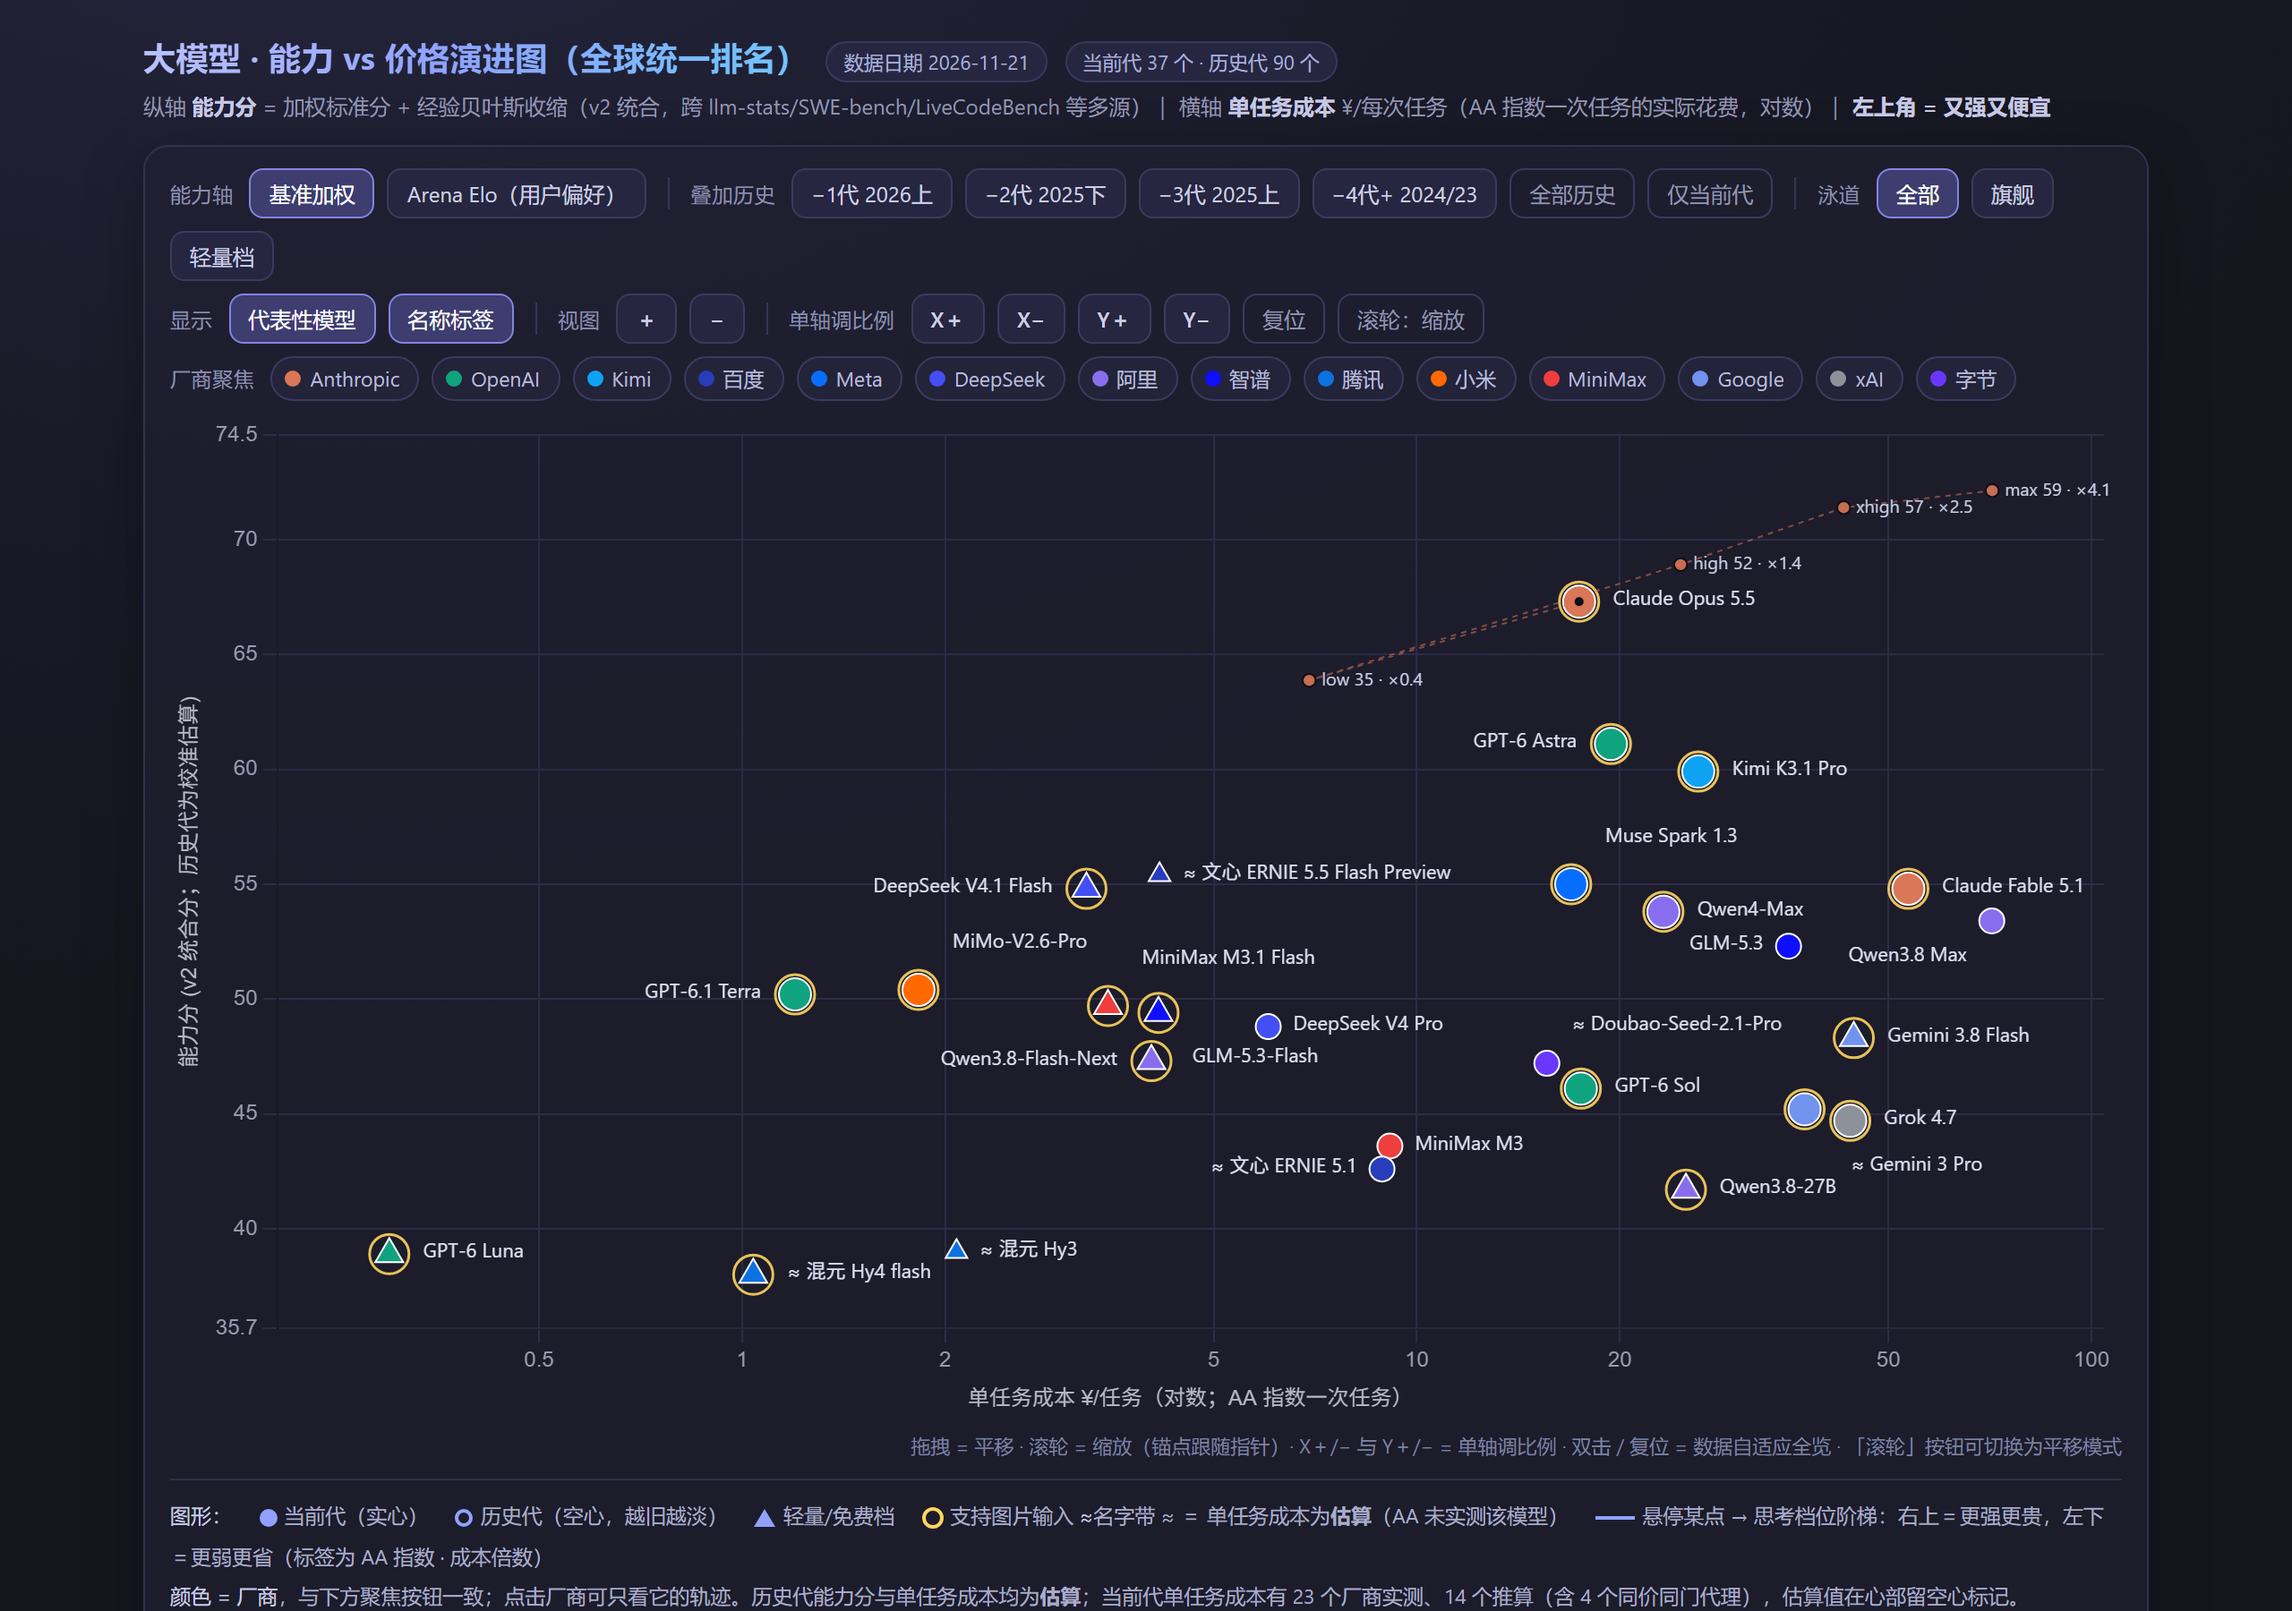
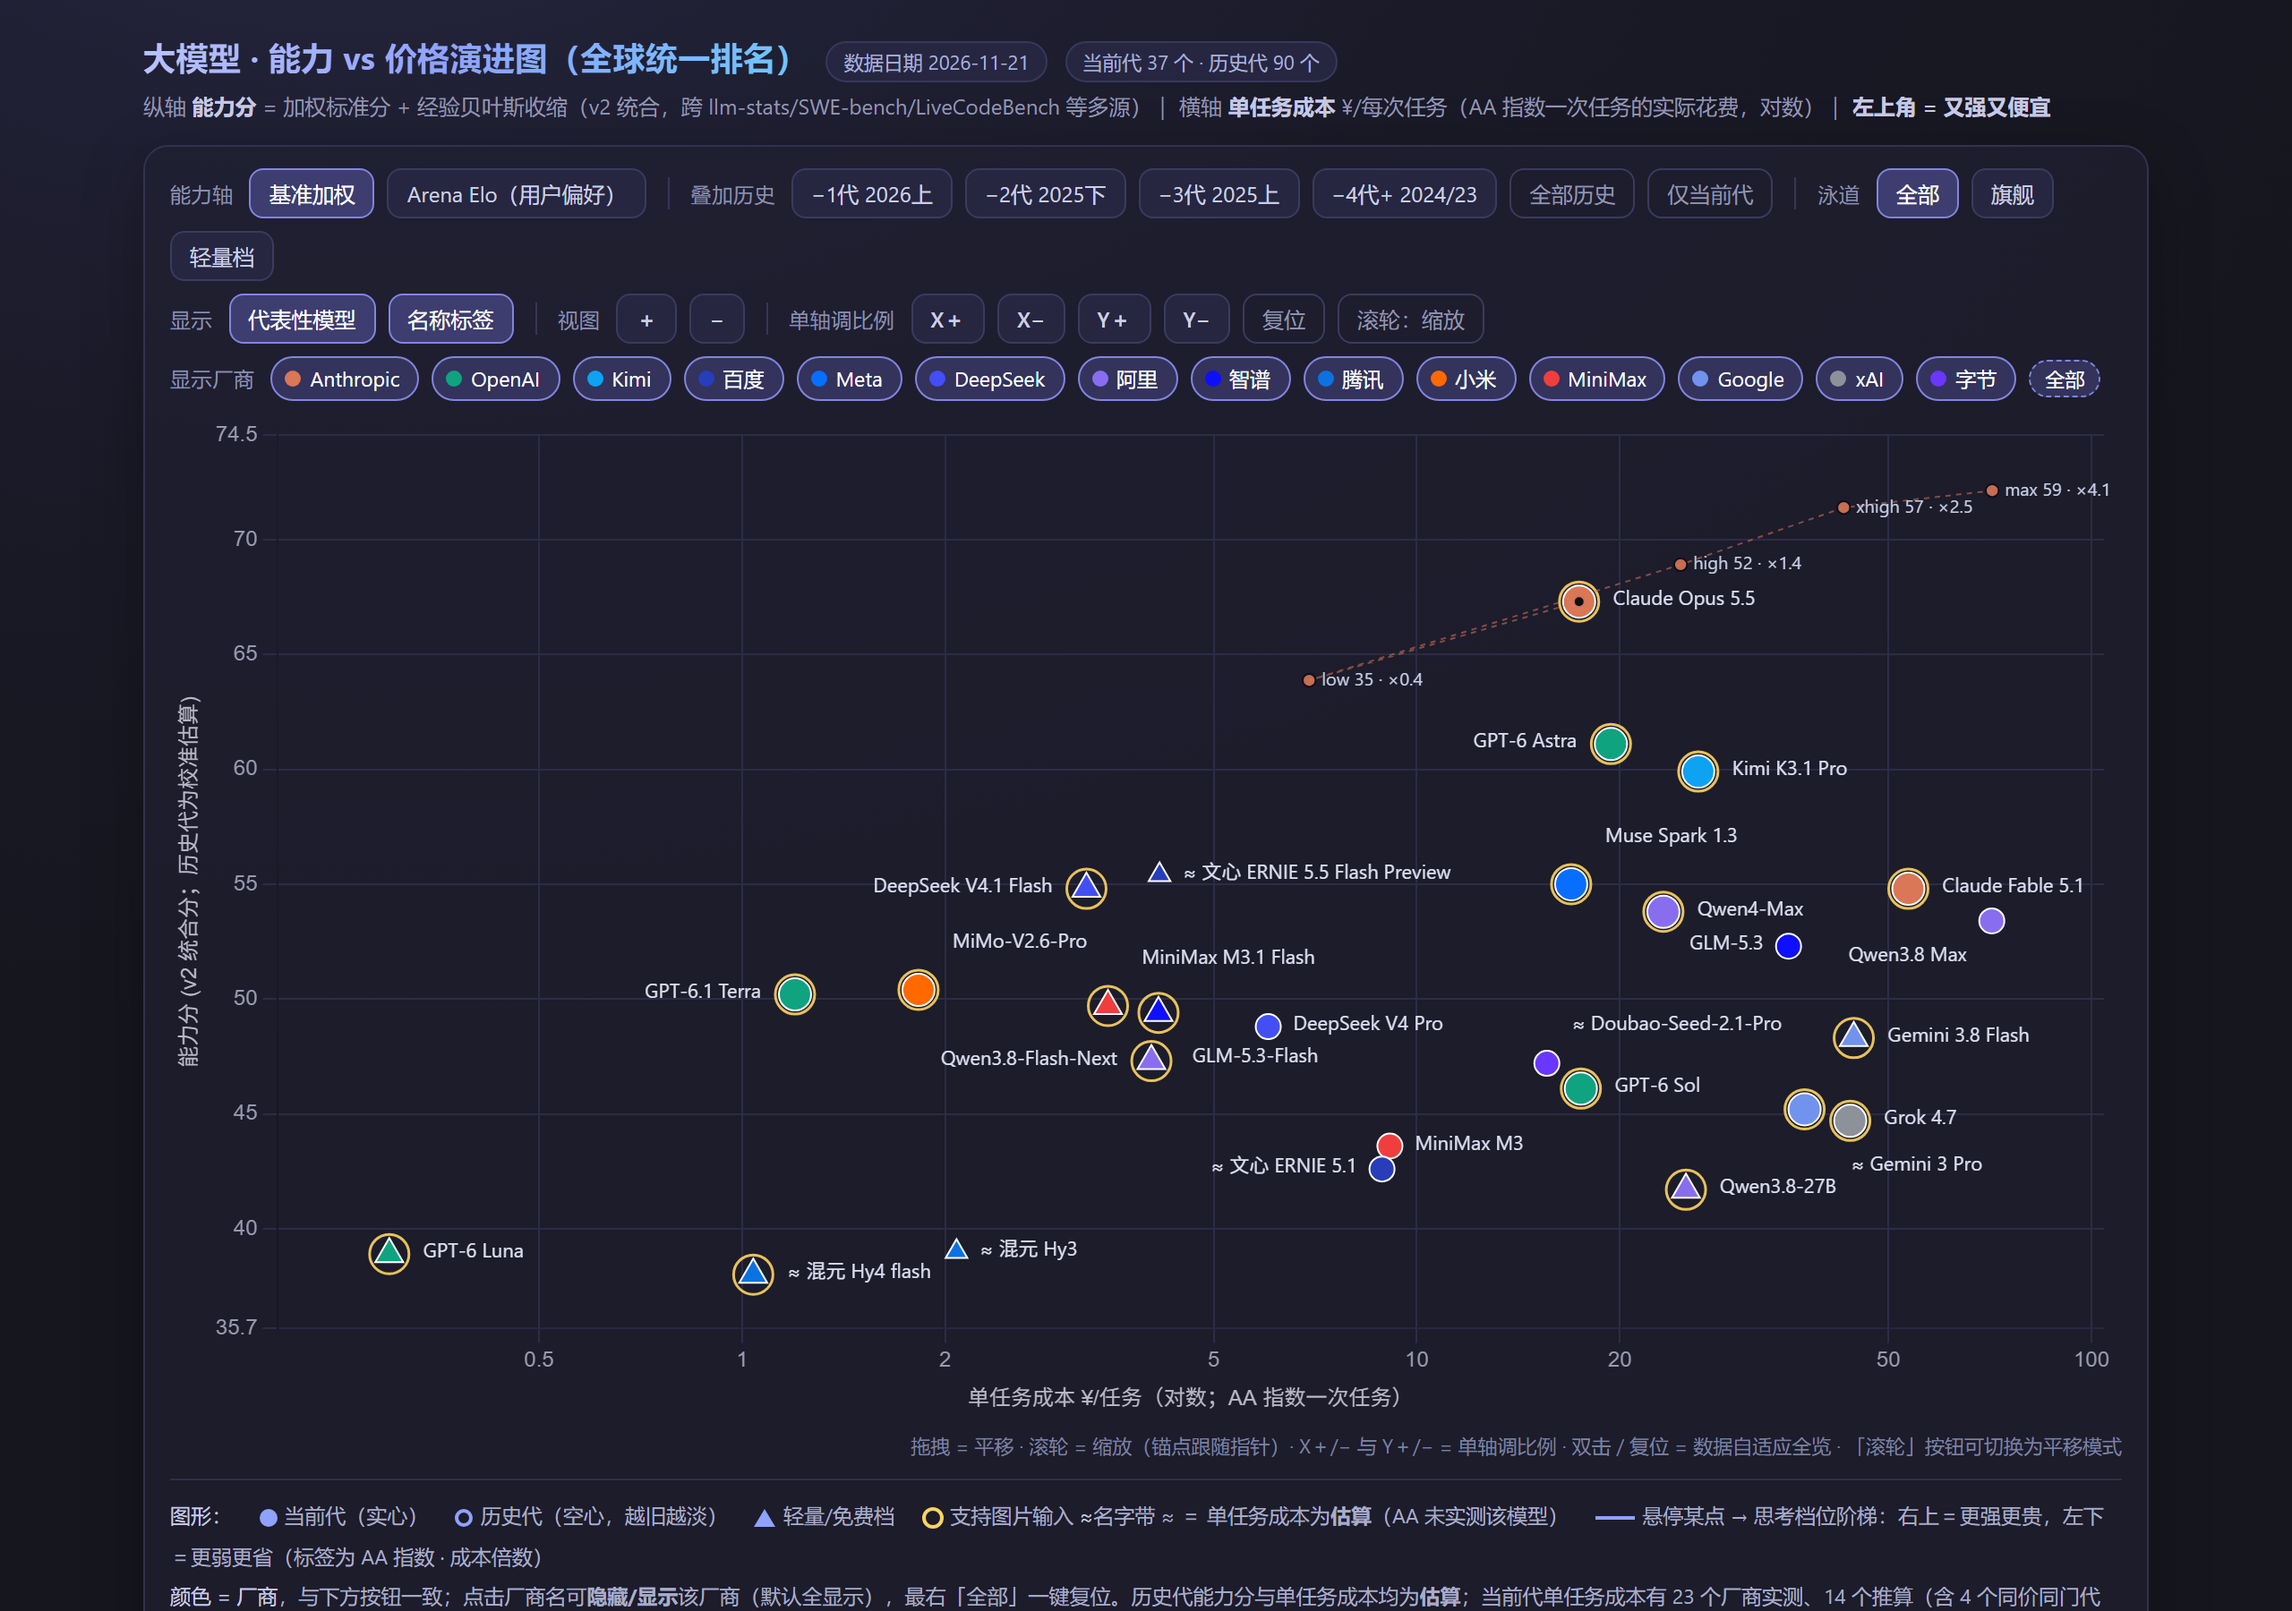
feat(chart): vendor chips control visibility instead of focusing one
Clicking a vendor used to filter the chart down to that single vendor, which made
comparing two or three vendors impossible and gave no way to read 'what does the
field look like without Anthropic'. The chips are now multi-select toggles:

  * every vendor starts visible; clicking hides it, clicking again shows it
  * dimmed chip = hidden, so the state is readable at a glance
  * a dashed 全部 chip at the end clears the set (14 vendors, undoing clicks by
    hand is the annoying case)

Label follows the new behaviour: 厂商聚焦 -> 显示厂商. The axis does not re-fit on a
vendor toggle, so the remaining points stay where they were.

Changed region(s): [[0.1562, 0.9644, 0.9062, 1.0], [0.0625, 0.2178, 0.9375, 0.2489]]

diff --git a/scatter_20261121.html b/scatter_20261121.html
@@ -67,6 +67,8 @@
           border-radius: 999px; padding: 4px 10px 4px 7px; transition: .13s; user-select: none; }
   .chip:hover { border-color: #6a6ab0; color: #fff; }
   .chip.on { background: #33335c; border-color: #8484e0; color: #fff; }
+  .chip:not(.on) { opacity: .45; }
+  .chip.all { border-style: dashed; font-size: 11px; padding: 2px 8px; }
   .chip i { width: 9px; height: 9px; border-radius: 50%; display: inline-block; }
 
   .chart-box { position: relative; width: 100%; height: 560px; cursor: grab; user-select: none; }
@@ -150,7 +152,7 @@
       <button id="wheelmode" class="ghost" title="切换滚轮行为：缩放 / 平移">滚轮：缩放</button>
     </div>
 
-    <div class="bar" id="chips"><span class="lab">厂商聚焦</span></div>
+    <div class="bar" id="chips"><span class="lab">显示厂商</span></div>
 
     <div class="chart-box" id="box"><canvas id="c"></canvas></div>
     <div class="hint">拖拽 = 平移 · 滚轮 = 缩放（锚点跟随指针）· X＋/− 与 Y＋/− = 单轴调比例 · 双击 / 复位 = 数据自适应全览 · 「滚轮」按钮可切换为平移模式</div>
@@ -164,7 +166,7 @@
       <span class="k">≈</span>名字带 ≈ ＝ 单任务成本为<b>估算</b>（AA 未实测该模型）
       <span class="mk line"></span>悬停某点 → 思考档位阶梯：右上＝更强更贵，左下＝更弱更省（标签为 AA 指数 · 成本倍数）
       <br>
-      <span class="k">颜色 = 厂商</span>，与下方聚焦按钮一致；点击厂商可只看它的轨迹。历史代能力分与单任务成本均为<b>估算</b>；当前代单任务成本有 23 个厂商实测、14 个推算（含 4 个同价同门代理），估算值在心部留空心标记。
+      <span class="k">颜色 = 厂商</span>，与下方按钮一致；点击厂商名可<b>隐藏/显示</b>该厂商（默认全显示），最右「全部」一键复位。历史代能力分与单任务成本均为<b>估算</b>；当前代单任务成本有 23 个厂商实测、14 个推算（含 4 个同价同门代理），估算值在心部留空心标记。
     </div>
 
     <div class="insight" id="insight"></div>
@@ -286,7 +288,9 @@ let datasets = makeDatasets(curPts, histPts);
 let eloDatasets = null;   // built lazily on first Elo-tab switch
 
 // ---- state (declared BEFORE new Chart: afterDatasetsDraw reads showLabels at first render) ----
-let showLabels = true, repOnly = true, laneFilter = 'all', focusVendor = null;
+let showLabels = true, repOnly = true, laneFilter = 'all';
+// vendor chips are VISIBILITY toggles (all on by default), not a single-vendor focus
+const hiddenVendors = new Set();
 let hoverId = null;   // model name whose effort ladder is being shown
 let wheelMode = 'zoom';                 // 'zoom' (default) | 'pan' (trackpad friendly)
 
@@ -489,7 +493,7 @@ const chart = new Chart(ctx, {
 [1,2,3,4].forEach(g=> chart.setDatasetVisibility(g,false));
 
 function laneOk(l){ return laneFilter==='all' || laneFilter===l; }
-function vendorOk(v){ return !focusVendor || v===focusVendor; }
+function vendorOk(v){ return !hiddenVendors.has(v); }
 
 let TAB = 'bench';   // 'bench' | 'elo'
 
@@ -784,15 +788,28 @@ document.getElementById('btn-label').onclick=()=>{
 const vendors=[...new Set([...curPts,...histPts].map(p=>p._vendor))];
 const chipBox=document.getElementById('chips');
 vendors.forEach(v=>{
-  const c=document.createElement('span'); c.className='chip';
+  const c=document.createElement('span'); c.className='chip on';
+  c.title = '点击隐藏 / 显示该厂商';
   c.innerHTML='<i style="background:'+vcolor(v)+'"></i>'+v;
   c.onclick=()=>{
-    if(focusVendor===v){ focusVendor=null; c.classList.remove('on'); }
-    else { focusVendor=v; document.querySelectorAll('#chips .chip').forEach(x=>x.classList.remove('on')); c.classList.add('on'); }
+    if(hiddenVendors.has(v)){ hiddenVendors.delete(v); c.classList.add('on'); }
+    else { hiddenVendors.add(v); c.classList.remove('on'); }
+    syncAllChip();
     applyFilters();
   };
   chipBox.appendChild(c);
 });
+// "全部" resets the visibility set -- with 14 vendors, undoing a few clicks by hand
+// is the annoying case.
+const allChip = document.createElement('span');
+allChip.className = 'chip all'; allChip.title = '显示全部厂商';
+allChip.textContent = '全部';
+allChip.onclick = ()=>{ hiddenVendors.clear();
+  document.querySelectorAll('#chips .chip:not(.all)').forEach(x=> x.classList.add('on'));
+  syncAllChip(); applyFilters(); };
+chipBox.appendChild(allChip);
+function syncAllChip(){ allChip.classList.toggle('on', hiddenVendors.size === 0); }
+syncAllChip();
 
 // ---- meta + insight ----
 document.getElementById('m1').textContent = META.methodology;

diff --git a/scatter_tpl.html b/scatter_tpl.html
@@ -46,6 +46,8 @@ __CHARTJS__
           border-radius: 999px; padding: 4px 10px 4px 7px; transition: .13s; user-select: none; }
   .chip:hover { border-color: #6a6ab0; color: #fff; }
   .chip.on { background: #33335c; border-color: #8484e0; color: #fff; }
+  .chip:not(.on) { opacity: .45; }
+  .chip.all { border-style: dashed; font-size: 11px; padding: 2px 8px; }
   .chip i { width: 9px; height: 9px; border-radius: 50%; display: inline-block; }
 
   .chart-box { position: relative; width: 100%; height: 560px; cursor: grab; user-select: none; }
@@ -129,7 +131,7 @@ __CHARTJS__
       <button id="wheelmode" class="ghost" title="切换滚轮行为：缩放 / 平移">滚轮：缩放</button>
     </div>
 
-    <div class="bar" id="chips"><span class="lab">厂商聚焦</span></div>
+    <div class="bar" id="chips"><span class="lab">显示厂商</span></div>
 
     <div class="chart-box" id="box"><canvas id="c"></canvas></div>
     <div class="hint">拖拽 = 平移 · 滚轮 = 缩放（锚点跟随指针）· X＋/− 与 Y＋/− = 单轴调比例 · 双击 / 复位 = 数据自适应全览 · 「滚轮」按钮可切换为平移模式</div>
@@ -143,7 +145,7 @@ __CHARTJS__
       <span class="k">≈</span>名字带 ≈ ＝ 单任务成本为<b>估算</b>（AA 未实测该模型）
       <span class="mk line"></span>悬停某点 → 思考档位阶梯：右上＝更强更贵，左下＝更弱更省（标签为 AA 指数 · 成本倍数）
       <br>
-      <span class="k">颜色 = 厂商</span>，与下方聚焦按钮一致；点击厂商可只看它的轨迹。历史代能力分与单任务成本均为<b>估算</b>；当前代单任务成本有 23 个厂商实测、14 个推算（含 4 个同价同门代理），估算值在心部留空心标记。
+      <span class="k">颜色 = 厂商</span>，与下方按钮一致；点击厂商名可<b>隐藏/显示</b>该厂商（默认全显示），最右「全部」一键复位。历史代能力分与单任务成本均为<b>估算</b>；当前代单任务成本有 23 个厂商实测、14 个推算（含 4 个同价同门代理），估算值在心部留空心标记。
     </div>
 
     <div class="insight" id="insight"></div>

diff --git a/gen_scatter.py b/gen_scatter.py
@@ -15,7 +15,7 @@ Interactivity (fully self-implemented; log-axis correct):
 - Wheel = zoom anchored at pointer (toggleable to pan, for trackpad users)
 - ＋/− zoom both axes; X＋/X−/Y＋/Y− zoom a single axis (aspect control)
 - Default view on load & 复位 / double-click = fit to currently visible data
-- Generation toggle (-1..-4), lane filter, vendor focus chips
+- Generation toggle (-1..-4), lane filter, vendor VISIBILITY chips (multi-select)
 - Evolution lines (same vendor + same lane, arrow -> newer), show/hide
 - Name labels, pareto (value) frontier toggles
 
@@ -319,7 +319,9 @@ let datasets = makeDatasets(curPts, histPts);
 let eloDatasets = null;   // built lazily on first Elo-tab switch
 
 // ---- state (declared BEFORE new Chart: afterDatasetsDraw reads showLabels at first render) ----
-let showLabels = true, repOnly = true, laneFilter = 'all', focusVendor = null;
+let showLabels = true, repOnly = true, laneFilter = 'all';
+// vendor chips are VISIBILITY toggles (all on by default), not a single-vendor focus
+const hiddenVendors = new Set();
 let hoverId = null;   // model name whose effort ladder is being shown
 let wheelMode = 'zoom';                 // 'zoom' (default) | 'pan' (trackpad friendly)
 
@@ -522,7 +524,7 @@ const chart = new Chart(ctx, {
 [1,2,3,4].forEach(g=> chart.setDatasetVisibility(g,false));
 
 function laneOk(l){ return laneFilter==='all' || laneFilter===l; }
-function vendorOk(v){ return !focusVendor || v===focusVendor; }
+function vendorOk(v){ return !hiddenVendors.has(v); }
 
 let TAB = 'bench';   // 'bench' | 'elo'
 
@@ -817,15 +819,28 @@ document.getElementById('btn-label').onclick=()=>{
 const vendors=[...new Set([...curPts,...histPts].map(p=>p._vendor))];
 const chipBox=document.getElementById('chips');
 vendors.forEach(v=>{
-  const c=document.createElement('span'); c.className='chip';
+  const c=document.createElement('span'); c.className='chip on';
+  c.title = '点击隐藏 / 显示该厂商';
   c.innerHTML='<i style="background:'+vcolor(v)+'"></i>'+v;
   c.onclick=()=>{
-    if(focusVendor===v){ focusVendor=null; c.classList.remove('on'); }
-    else { focusVendor=v; document.querySelectorAll('#chips .chip').forEach(x=>x.classList.remove('on')); c.classList.add('on'); }
+    if(hiddenVendors.has(v)){ hiddenVendors.delete(v); c.classList.add('on'); }
+    else { hiddenVendors.add(v); c.classList.remove('on'); }
+    syncAllChip();
     applyFilters();
   };
   chipBox.appendChild(c);
 });
+// "全部" resets the visibility set -- with 14 vendors, undoing a few clicks by hand
+// is the annoying case.
+const allChip = document.createElement('span');
+allChip.className = 'chip all'; allChip.title = '显示全部厂商';
+allChip.textContent = '全部';
+allChip.onclick = ()=>{ hiddenVendors.clear();
+  document.querySelectorAll('#chips .chip:not(.all)').forEach(x=> x.classList.add('on'));
+  syncAllChip(); applyFilters(); };
+chipBox.appendChild(allChip);
+function syncAllChip(){ allChip.classList.toggle('on', hiddenVendors.size === 0); }
+syncAllChip();
 
 // ---- meta + insight ----
 document.getElementById('m1').textContent = META.methodology;
